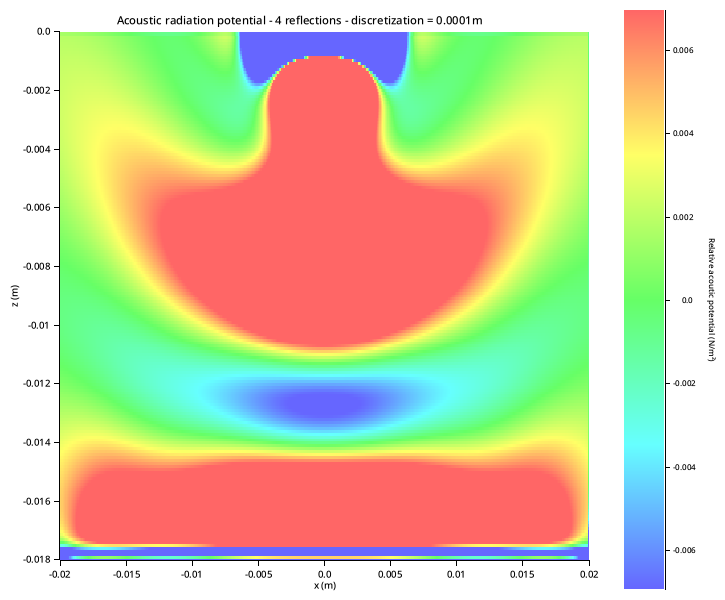
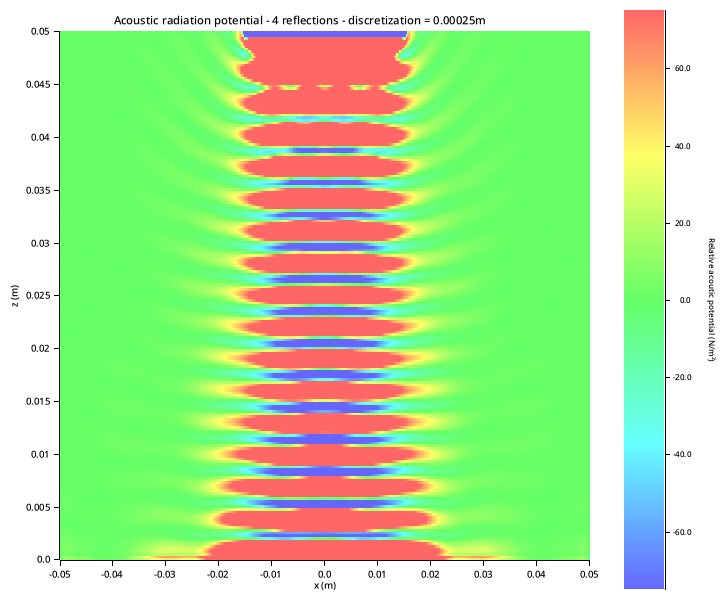
save

diff --git a/src/matrix_method/potential_field.rs b/src/matrix_method/potential_field.rs
@@ -12,7 +12,10 @@ fn velocity_potential(pressure: &Field, sp: impl Into<SimulationParameters>) -> 
     pressure.map(|p| -p / (I * sp.omega * RHO))
 }
 
-pub fn velocity_field(pressure: &Field, sp: impl Into<SimulationParameters>) -> (Field, Field) {
+pub fn compute_velocity_field(
+    pressure: &Field,
+    sp: impl Into<SimulationParameters>,
+) -> (Field, Field) {
     let sp: SimulationParameters = sp.into();
     let velocity_potential = velocity_potential(pressure, sp.clone());
     // compute the gradient of the velocity potential
@@ -37,24 +40,24 @@ pub fn velocity_field(pressure: &Field, sp: impl Into<SimulationParameters>) -> 
                 if i == 0 {
                     // forward
                     let (z1, z2) = (
-                        z_min + (i as f64) * (z_max - z_min) / row as f64,
-                        z_min + ((i + 1) as f64) * (z_max - z_min) / row as f64,
+                        z_min + (i as f64) * (z_max - z_min) / (row - 1) as f64,
+                        z_min + ((i + 1) as f64) * (z_max - z_min) / (row - 1) as f64,
                     );
                     vf_z[[i, j]] =
                         (velocity_potential[[i + 1, j]] - velocity_potential[[i, j]]) / (z2 - z1)
                 } else if i == row - 1 {
                     // backward
                     let (z1, z2) = (
-                        z_min + ((i - 1) as f64) * (z_max - z_min) / row as f64,
-                        z_min + (i as f64) * (z_max - z_min) / row as f64,
+                        z_min + ((i - 1) as f64) * (z_max - z_min) / (row - 1) as f64,
+                        z_min + (i as f64) * (z_max - z_min) / (row - 1) as f64,
                     );
                     vf_z[[i, j]] =
                         (velocity_potential[[i, j]] - velocity_potential[[i - 1, j]]) / (z2 - z1)
                 } else {
                     // Centered
                     let (z1, z2) = (
-                        z_min + ((i - 1) as f64) * (z_max - z_min) / row as f64,
-                        z_min + ((i + 1) as f64) * (z_max - z_min) / row as f64,
+                        z_min + ((i - 1) as f64) * (z_max - z_min) / (row - 1) as f64,
+                        z_min + ((i + 1) as f64) * (z_max - z_min) / (row - 1) as f64,
                     );
                     vf_z[[i, j]] = (velocity_potential[[i + 1, j]] - velocity_potential[[i - 1, j]])
                         / (2.0 * (z2 - z1))
@@ -66,24 +69,24 @@ pub fn velocity_field(pressure: &Field, sp: impl Into<SimulationParameters>) -> 
                 if j == 0 {
                     // forward
                     let (x1, x2) = (
-                        x_min + (j as f64) * (x_max - x_min) / col as f64,
-                        x_min + ((j + 1) as f64) * (x_max - x_min) / col as f64,
+                        x_min + (j as f64) * (x_max - x_min) / (col - 1) as f64,
+                        x_min + ((j + 1) as f64) * (x_max - x_min) / (col - 1) as f64,
                     );
                     vf_x[[i, j]] =
                         (velocity_potential[[i, j + 1]] - velocity_potential[[i, j]]) / (x2 - x1)
                 } else if j == col - 1 {
                     // backward
                     let (x1, x2) = (
-                        x_min + ((j - 1) as f64) * (x_max - x_min) / col as f64,
-                        x_min + (j as f64) * (x_max - x_min) / col as f64,
+                        x_min + ((j - 1) as f64) * (x_max - x_min) / (col - 1) as f64,
+                        x_min + (j as f64) * (x_max - x_min) / (col - 1) as f64,
                     );
                     vf_x[[i, j]] =
                         (velocity_potential[[i, j]] - velocity_potential[[i, j - 1]]) / (x2 - x1);
                 } else {
                     // Centered
                     let (x1, x2) = (
-                        x_min + ((j - 1) as f64) * (x_max - x_min) / col as f64,
-                        x_min + ((j + 1) as f64) * (x_max - x_min) / col as f64,
+                        x_min + ((j - 1) as f64) * (x_max - x_min) / (col - 1) as f64,
+                        x_min + ((j + 1) as f64) * (x_max - x_min) / (col - 1) as f64,
                     );
                     vf_x[[i, j]] = (velocity_potential[[i, j + 1]] - velocity_potential[[i, j - 1]])
                         / (2.0 * (x2 - x1))
@@ -96,12 +99,12 @@ pub fn velocity_field(pressure: &Field, sp: impl Into<SimulationParameters>) -> 
 }
 
 /// The output type is a complex field BUT the field itself is 100% real
-pub fn acoustic_radiation_potential(
+pub fn compute_acoustic_radiation_field(
     pressure: &Field,
     sp: impl Into<SimulationParameters>,
     sphere_radius: Option<f64>,
 ) -> Field {
-    let vf = velocity_field(pressure, sp);
+    let vf = compute_velocity_field(pressure, sp);
     assert_eq!(pressure.shape(), vf.0.shape());
 
     // compute the mean square amplitude of the pressure & velocity field
@@ -113,10 +116,31 @@ pub fn acoustic_radiation_potential(
     let mut relative_acoustic_potential: Array2<f64> = Array2::zeros(pressure.raw_dim());
     for i in 0..row {
         for j in 0..col {
-            let (pmsa, vmsa) = (
-                pressure[[i, j]].norm_sqr(),
-                vf.0[[i, j]].norm_sqr() + vf.1[[i, j]].norm_sqr(),
-            );
+            let mut nb_of_neighbor: usize = 0;
+            let (mut p_sum, mut v_sum) = (0.0, 0.0);
+
+            const SQUARE_SIZE: isize = 1; // only odd positive number
+            for k in 0..SQUARE_SIZE {
+                for l in 0..SQUARE_SIZE {
+                    let (k, l) = (k - (SQUARE_SIZE - 1) / 2, l - (SQUARE_SIZE - 1) / 2);
+                    let (n_row, n_col) = (i as isize + k, j as isize + l);
+                    if n_row < 0
+                        || n_row > row as isize - 1
+                        || n_col < 0
+                        || n_col > col as isize - 1
+                    {
+                        continue;
+                    }
+
+                    nb_of_neighbor += 1;
+                    let (n_row, n_col) = (n_row as usize, n_col as usize);
+                    // p_sum += pressure[[n_row, n_col]].re.powi(2);
+                    // v_sum += vf.0[[n_row, n_col]].re.powi(2) + vf.1[[n_row, n_col]].re.powi(2);
+                    p_sum += pressure[[n_row, n_col]].norm_sqr();
+                    v_sum += vf.0[[n_row, n_col]].norm_sqr() + vf.1[[n_row, n_col]].norm_sqr();
+                }
+            }
+            let (pmsa, vmsa) = (p_sum / nb_of_neighbor as f64, v_sum / nb_of_neighbor as f64);
             relative_acoustic_potential[[i, j]] =
                 (pmsa / (3.0 * RHO.re * C.re.powi(2))) - ((RHO.re * vmsa) / 2.0);
         }

diff --git a/src/main.rs b/src/main.rs
@@ -1,9 +1,10 @@
 use std::fs;
 
 use matrix_method::{
-    potential_field::acoustic_radiation_potential, pressure_field, FieldType,
-    SimulationParametersArgs, MM,
+    potential_field::{compute_acoustic_radiation_field, compute_velocity_field},
+    pressure_field, Field, FieldType, SimulationParametersArgs, MM,
 };
+use ndarray::Array2;
 use num_complex::Complex;
 use plot::plot_field;
 
@@ -15,33 +16,51 @@ fn main() {
     let _ = fs::create_dir_all("./tmp");
 
     let simulation_parameters = SimulationParametersArgs {
-        x_min: -20.0 * MM,
-        x_max: 20.0 * MM,
-        z_min: -18.0 * MM,
-        z_max: 0.0 * MM,
+        x_min: -50.0 * MM,
+        x_max: 50.0 * MM,
+        z_min: 0.0 * MM,
+        z_max: 50.0 * MM,
         nb_of_reflection: 4,
-        disc: 0.1 * MM,
-        radius: 5.0 * MM,
-        hole_radius: 0.0,
-        freq: Complex::new(20_000.0, 0.0),
-        u_0: 0.000001,
+        disc: 0.25 * MM,
+        radius: 15.0 * MM,
+        hole_radius: 2.0 * MM,
+        freq: Complex::new(56000.0, 0.0),
+        u_0: 0.0000060,
     };
     // let simulation_parameters = SimulationParametersArgs::default();
 
     let pressure = pressure_field::compute_pressure_field(simulation_parameters);
     plot_field(
         (&pressure, FieldType::Pressure),
-        (None, 2.0),
+        (None, 4.0),
         simulation_parameters,
         "./out/pressure_field.png",
     )
     .expect("Failed to draw pressure field");
 
+    {
+        let velocity_field = compute_velocity_field(&pressure, simulation_parameters);
+        plot_field(
+            (&velocity_field.0, FieldType::Velocity),
+            (None, 5000.0),
+            simulation_parameters,
+            "./out/velocity_field_x.png",
+        )
+        .expect("Failed to draw velocity field");
+        plot_field(
+            (&velocity_field.1, FieldType::Velocity),
+            (None, 5.0),
+            simulation_parameters,
+            "./out/velocity_field_z.png",
+        )
+        .expect("Failed to draw velocity field");
+    }
+
     let acoustic_radiation_field =
-        acoustic_radiation_potential(&pressure, simulation_parameters, None);
+        compute_acoustic_radiation_field(&pressure, simulation_parameters, None);
     plot_field(
         (&acoustic_radiation_field, FieldType::RadiationPotential),
-        (Some(-0.0005..0.0005), 1.0),
+        (Some(-75.0..75.0), 1.0),
         simulation_parameters,
         "./out/acoustic_radiation_potential.png",
     )

diff --git a/src/plot.rs b/src/plot.rs
@@ -12,8 +12,12 @@ pub fn plot_field(
     simulation_parameters: SimulationParametersArgs,
     save_path: &str,
 ) -> Result<(), Box<dyn std::error::Error>> {
-    draw_field(field_info, simulation_parameters, (zoom, saturation))?;
-    draw_field_color_map(field_info, saturation)?;
+    draw_field(
+        field_info,
+        simulation_parameters,
+        (zoom.clone(), saturation),
+    )?;
+    draw_field_color_map(field_info, (zoom, saturation))?;
     post_processing(save_path)?;
     Ok(())
 }
@@ -75,8 +79,8 @@ fn draw_field(
     for row_id in 0..ph {
         for col_id in 0..pw {
             let (x, z) = (
-                x_min + (col_id as f64) * (x_max - x_min) / pw as f64,
-                z_min + (row_id as f64) * (z_max - z_min) / ph as f64,
+                x_min + (col_id as f64) * (x_max - x_min) / (pw - 1) as f64,
+                z_min + (row_id as f64) * (z_max - z_min) / (ph - 1) as f64,
             );
 
             // if data point doesn't exist, take the nearest one
@@ -105,9 +109,13 @@ fn draw_field(
 
 fn draw_field_color_map(
     (field, field_type): (&Field, FieldType),
-    saturation: f64,
+    (zoom, saturation): (Option<Range<f64>>, f64),
 ) -> Result<(), Box<dyn std::error::Error>> {
-    let (minlvl, maxlvl) = best_field_zoom(field, saturation);
+    // min max of the field zoom, aka where I want to watch the field
+    let (minlvl, maxlvl) = match zoom {
+        Some(range) => (range.start, range.end),
+        None => best_field_zoom(field, saturation),
+    };
 
     let root = BitMapBackend::new(TMP_COLORMAP_PATH, (150, 600)).into_drawing_area();
     root.fill(&WHITE)?;

diff --git a/src/matrix_method/mod.rs b/src/matrix_method/mod.rs
@@ -161,7 +161,7 @@ impl Default for SimulationParametersArgs {
             z_min: 0.0 * MM,
             z_max: 50.0 * MM,
             nb_of_reflection: 4,
-            disc: 0.5 * MM,
+            disc: 0.25 * MM,
             radius: 15.0 * MM,
             hole_radius: 2.0 * MM,
             freq: Complex::new(56000.0, 0.0),
